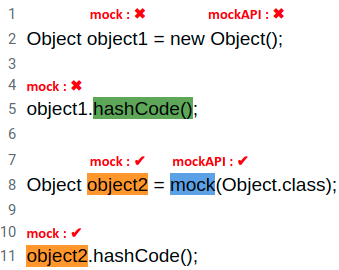
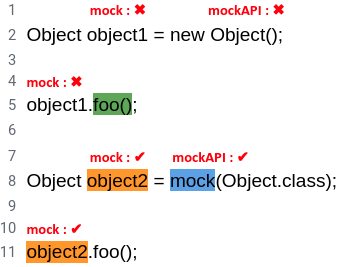
change the method back to foo()

diff --git a/motivating-example.tex b/motivating-example.tex
@@ -9,9 +9,9 @@ To motivate our work, consider Listing~\ref{lis:mockCall}, which presents a unit
 
 \paragraph{Basic dataflow analysis} The dataflow analysis based \textsc{MockDetector} implementation maintains an abstraction mapping values (local variables or field references) in Soot's Jimple intermediate representation (IR)~\cite{Vallee-Rai:1999:SJB:781995.782008} to \texttt{MockStatus}, which holds three bits monitoring each value's status being a mock, a mock-containing array, and a mock-containing collection, respectively. The declarative version, which we do not explain in this section, maintains relations that track the same bits.
 
-Figure~\ref{fig:mockMethodIllustration} shows how our dataflow analysis works, and Listing~\ref{lis:mockMethodIllustrationIR} shows the Jimple IR of the code in Figure ~\ref{fig:mockMethodIllustration}. Refer to the Jimple IR, we begin with an empty abstraction (no mapping for any values, equivalent to all bits false for each value) before line~\ref{line:lis3line3}. For the creation of \texttt{\$r1} on line~\ref{line:lis3line3} and ~\ref{line:lis3line4}, since the call to the no-arg \texttt{<init>} is not one of our hardcoded mock APIs, our analysis does not declare \texttt{\$r1} to be a mock object. In practice, our abstraction simply does not create an explicit binding for \texttt{\$r1}, instead leaving the mapping empty as it was prior to line~\ref{line:lis3line3}; but it would be equivalent to create a new \texttt{MockStatus} with all bits false and bind it to \texttt{\$r1}. Thus, we may conclude that the invocation \texttt{object1.hashCode()} on line 5 in Figure~\ref{fig:mockMethodIllustration} is not known to be a mock invocation. Tying back to our focal methods application, we would not exclude the call to \texttt{hashCode()} from being a possible focal method.
+Figure~\ref{fig:mockMethodIllustration} shows how our dataflow analysis works, and Listing~\ref{lis:mockMethodIllustrationIR} shows the Jimple IR of the code in Figure ~\ref{fig:mockMethodIllustration}. Refer to the Jimple IR, we begin with an empty abstraction (no mapping for any values, equivalent to all bits false for each value) before line~\ref{line:lis3line3}. For the creation of \texttt{\$r1} on line~\ref{line:lis3line3} and ~\ref{line:lis3line4}, since the call to the no-arg \texttt{<init>} is not one of our hardcoded mock APIs, our analysis does not declare \texttt{\$r1} to be a mock object. In practice, our abstraction simply does not create an explicit binding for \texttt{\$r1}, instead leaving the mapping empty as it was prior to line~\ref{line:lis3line3}; but it would be equivalent to create a new \texttt{MockStatus} with all bits false and bind it to \texttt{\$r1}. Thus, we may conclude that the invocation \texttt{object1.foo()} on line 5 in Figure~\ref{fig:mockMethodIllustration} is not known to be a mock invocation. Tying back to our focal methods application, we would not exclude the call to \texttt{foo()} from being a possible focal method.
 
-On the other hand, our imperative analysis sees the mock creation API \texttt{<org.mockito.Mockito: java.lang.Object mock(java.lang.Class)>} on line~\ref{line:lis3line6} and ~\ref{line:lis3line7} in the Jimple IR. It thus adds a mapping from local variable \texttt{r2} to a new \texttt{MockStatus} with the mock bit set to true. When the analysis reaches line~\ref{line:lis3line9}, because \texttt{r2} has a mapping in the abstraction with the mock bit being set, \textsc{MockDetector} will deduce that the call on line~\ref{line:lis3line7} is a mock invocation. This implies that the call to method \textit{hashCode()} on line 11 in Figure~\ref{fig:mockMethodIllustration} cannot be a focal method.
+On the other hand, our imperative analysis sees the mock creation API \texttt{<org.mockito.Mockito: java.lang.Object mock(java.lang.Class)>} on line~\ref{line:lis3line6} and ~\ref{line:lis3line7} in the Jimple IR. It thus adds a mapping from local variable \texttt{r2} to a new \texttt{MockStatus} with the mock bit set to true. When the analysis reaches line~\ref{line:lis3line9}, because \texttt{r2} has a mapping in the abstraction with the mock bit being set, \textsc{MockDetector} will deduce that the call on line~\ref{line:lis3line7} is a mock invocation. This implies that the call to method \textit{foo()} on line 11 in Figure~\ref{fig:mockMethodIllustration} cannot be a focal method.
 
 \paragraph{Extensions: arrays and collections} While we were designing \textsc{MockDetector}, we observed several cases where developers store mock objects in arrays and collections. Listing~\ref{lis:container} presents method \textit{setUp()} in class \texttt{NodeListIteratorTest} from commons-collections-4.4, where line \ref{line:storeMocksInArray} puts the mock \texttt{Node} objects in the array-typed field \texttt{nodes}. This field is later used in test cases. When the flow function of the dataflow analysis receives an assignment statement containing an array reference, it would first look for values (local variables or field reference sources) on the opposite side of the assignment statement from where the array reference appears in the Jimple intermediate representation. It then checks whether any of these local variables or field reference sources have been marked as mock objects in the analysis. If so, then the tool would mark the local variable or field reference representing the array as an array mock---it propagates the mockness to this array container.
 
@@ -93,11 +93,11 @@ java.lang.Object $r1, r2;
 
 $r1 = new java.lang.Object; |\label{line:lis3line3}|
 specialinvoke $r1.<java.lang.Object: void <init>()>(); |\label{line:lis3line4}|
-virtualinvoke $r1.<java.lang.Object: int hashCode()>(); |\label{line:lis3line5}|
+virtualinvoke $r1.<java.lang.Object: void foo()>(); |\label{line:lis3line5}|
 r2 = staticinvoke <org.mockito.Mockito: |\label{line:lis3line6}|
  java.lang.Object mock(java.lang.Class)> |\label{line:lis3line7}|
  	(class "Ljava/lang/Object;");
-virtualinvoke r2.<java.lang.Object: int hashCode()>(); |\label{line:lis3line9}|
+virtualinvoke r2.<java.lang.Object: void foo()>(); |\label{line:lis3line9}|
 
 \end{lstlisting}
 
